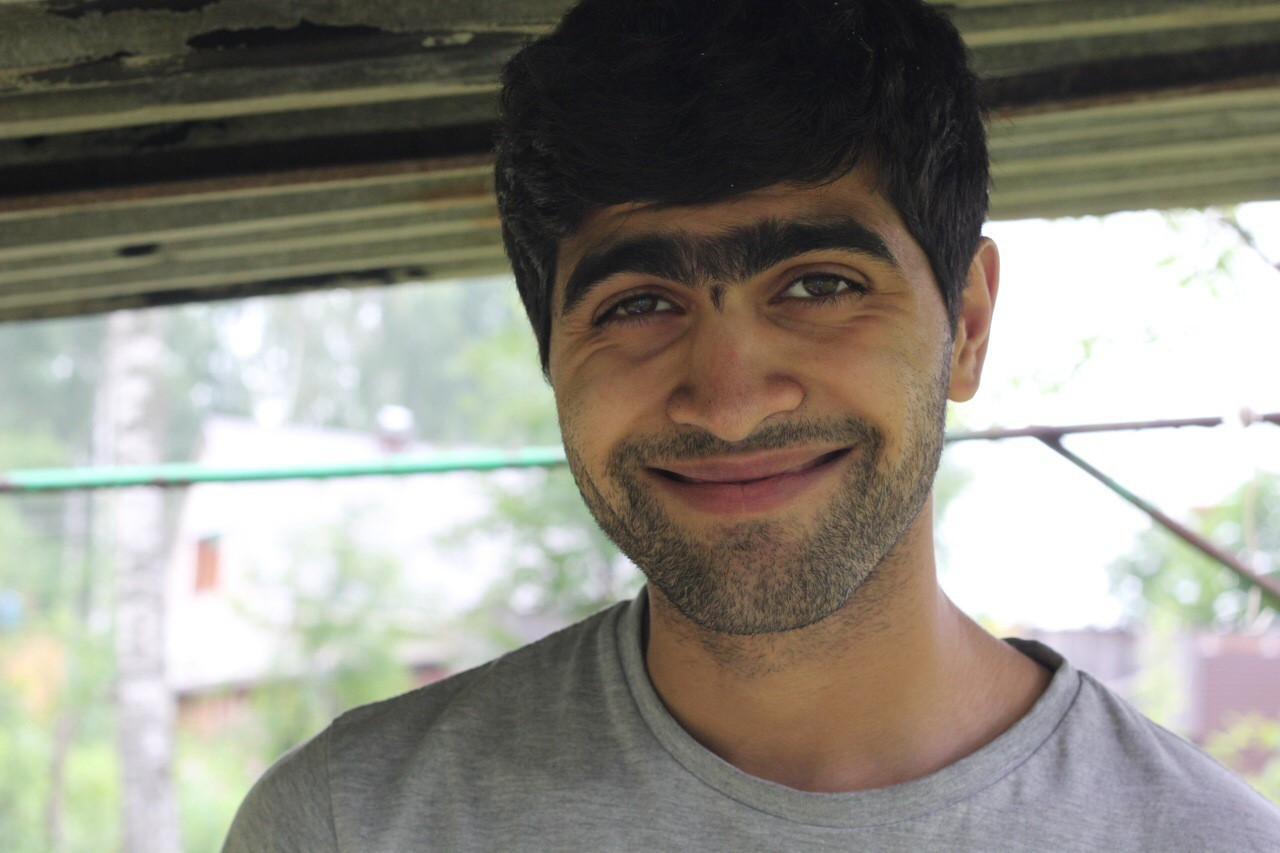
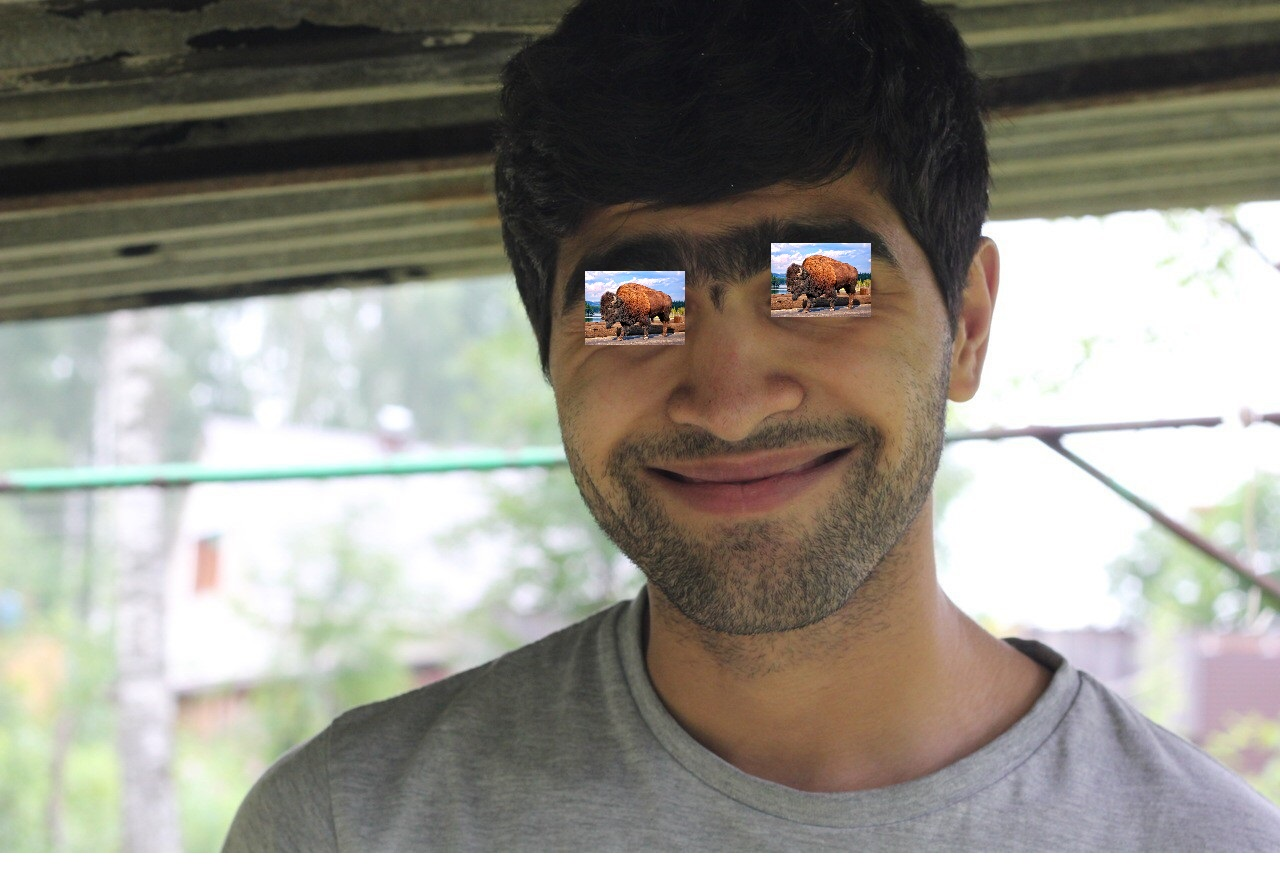
создание зубров
создал div с диплеем flex и зубрами

diff --git a/index.html b/index.html
@@ -135,8 +135,6 @@
 		</h2>
 		<div class="sasun">
 			<div class="glaza">
-				<img src="images/zubr.jpg">
-				<img src="images/zubr.jpg">
 			</div>
 			<div class="infa">
 				<p>
@@ -145,14 +143,32 @@
 			</div>
 		</div>
 	</div>
-	<div id="skila" class="shkola">
+		<div id="skila" class="shkola">
+			<div class="contanier">
+			<div class="items">
+				<h2 class="zubrichi">зубр одиночка</h2>
+			<img src="images/zubrik.jpg">	
+			</div>
+			<div class="items">
+				<h2 class="zubrichi">растяжка зубра</h2>
+			<img src="images/winter.jpg">
+			</div>
+			<div class="items">
+				<h2 class="zubrichi">зубровый забив</h2>
+			<img src="images/zubriki.jpg">
+			</div>
+		</div>
 		<h2 class="soch">
 			Сочинение для Натальи Владимировны
 		</h2>
 		<p class="sochinenie">
 			Случилось это вечером...Я решил погулять с зубром и заодно купить себе яблок.
+		</p>
+		<p class="sochinenie">
 			По дороге в магазин я заметил,что нигде не было людей.Странным было то,что я по всему чувствовалась лёгкость...Зайдя в магазин я увидел бочку.Казалось
 			бы бочка по середине магазина,что тут странного.Но она была громадной,размером,как с одноэтажный дом.Мне стало не по себе.И тут я вспомнил как нам рассказывала Вера Фёдоровна про Диогена.Я немного постоял,подумал и решил постучаться в неё.Как только я протянул руку меня кусил головастик в виде Диогена.Я тотчас отпрыгнул в сторону от испуга и боли.Осознав,что происходит,я решил бежать.Ведь в одиночку мне с головастиком-Диогеном не справиться.Но вдруг мой зубр начал резко увеличиваться в размере он превратился в огромного зубра с бочкой на голове.Зубр стал меня защищать и напал на головастика-Диогена.Онподпрыгнул и кусил Диогена за голову.Диоген без своей огромной головы побежал в бочку...Из бочки раздался голос"А голову ты дома не забыл".C этого момента уже "неголовастика" Диогена яне видел.Вдруг зубр развернулся и начал идти в мою сторону.Он положил свой хвост мне на плечо и в этот момент я проснулся.
+		</p>
+		<p class="sochinenie">
 			Оказалось,что это был не хвост зубра,а рука Настюшки,которая пыталась меня разбудить.И вдруг до меня дошло,что сон сморил меня на уроке матиматике...(Продолжение следует)
 		</p>
 	</div>

diff --git a/Irina.css b/Irina.css
@@ -236,8 +236,9 @@ h6 a{
 .sochinenie{
 	font-weight: bold;
 	font-size: 22px;
-	margin: 7px;
-
+	padding: 20px;
+	background-color: #F5B0A1;
+	border-radius: 10px;
 }
 .soch{
 	text-align: center;
@@ -249,4 +250,20 @@ h6 a{
 	width: 500px;
 	position: relative;
 	left: 35%;
+}
+.contanier{
+	display: flex;
+	justify-content: center;
+}
+.items{
+	display: flex;
+	width: 300px;
+	height: 300px;
+	margin-left: 300px;
+	justify-content: center;
+}
+.zubrichi{
+	background-color:#F5B0A1 ;
+	border-radius: 10px 0 0 10px;
+	padding-left: 35px;
 }

diff --git a/medio.css b/medio.css
@@ -36,3 +36,29 @@
 		display: inline;
 		margin: 0;
 	}
+	.contanier{
+	display: inline-block;
+	}
+	.items img{
+	width: 200px;
+	height: 150px;
+	margin-right: 100%;
+
+	}
+	.items h2{
+	position: relative;
+	top: 130px;
+	left: 100px;
+	height: 70px;
+	border-radius: 10px 0 10px 10px;
+	}
+	.zubrichi{
+	background-color:#F5B0A1 ;
+	border-radius: 10px 0 0 10px;
+	position: relative;
+	left: 0;
+	}
+	.items{
+	display: flex;
+	justify-content: right;
+	}
